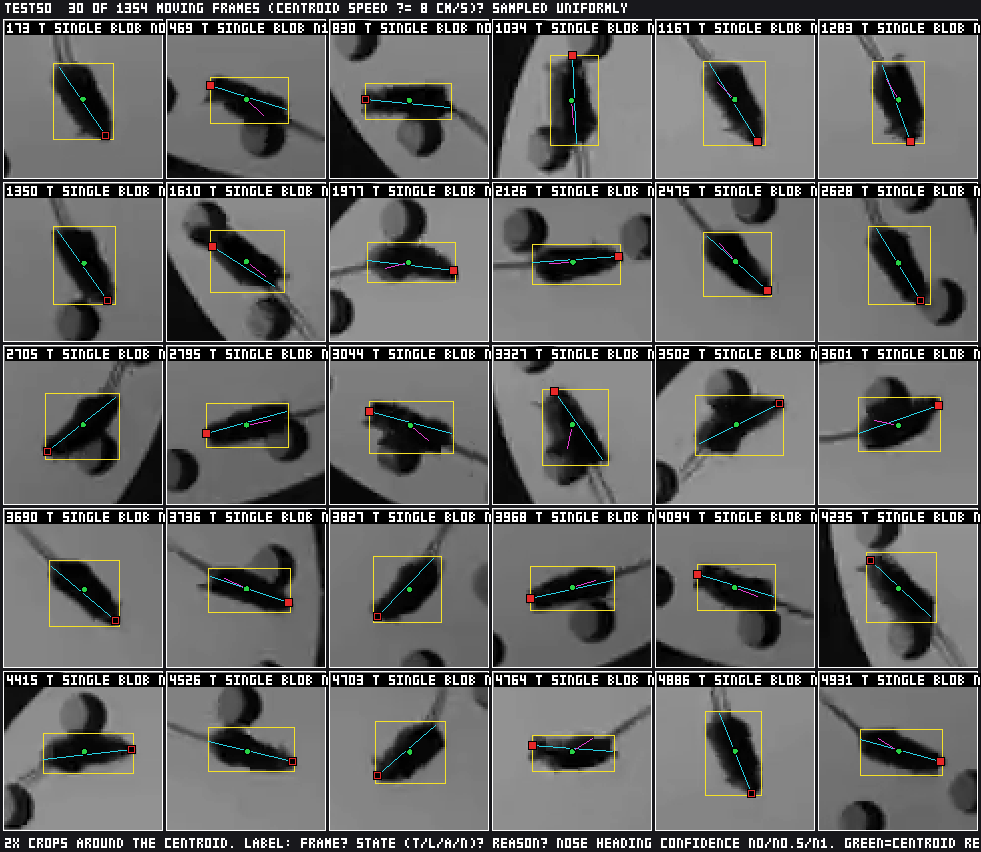
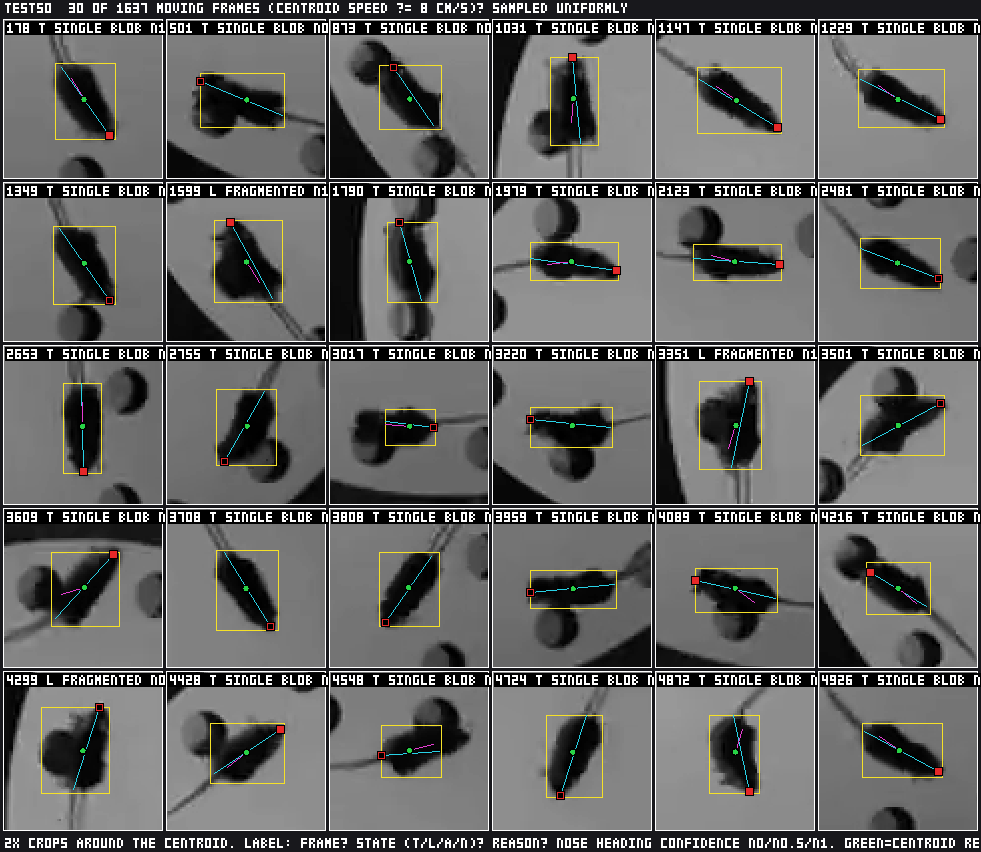
Re-measure the three sample videos with the fragment merge
multiple_blobs 423 -> 0 (test50), 63 -> 0 (test53), 89 -> 75 (test51: the
cylinder frames stay ambiguous); single-blob and centroid rates 100 % on
the sampled frames of all three clips; contact, zoom and moving sheets
regenerated and re-judged; the split-animal defect replaced by the residual
of the merge (union centroid on the visible pieces, nose availability).

Claude-Session: https://claude.ai/code/session_01KXTbpiAuxihG9Z8MdBGybC

diff --git a/prototypes/tracker/RESULTS.md b/prototypes/tracker/RESULTS.md
@@ -26,45 +26,46 @@ and nose cues, candidates, summary, timing), `<video>.background.png`, `<video>.
 `--debug` frames. The committed copies here are the contact, zoom and moving sheets and the
 backgrounds. All parameters were the defaults in `src/analysis/tracker/params.ts` (Otsu threshold,
 1.5 cm mask margin, 4–80 cm² area range, expected area learned, opening radius 0.8 cm, moving speed
-8 cm/s); nothing was tuned per video.
+8 cm/s, fragment merge distance 8 cm); nothing was tuned per video. The fragment merge (D48) was added
+after the first measurement; the before/after counts are at the end of this file.
 
 ## Summary per video
 
 | video  | frames | tracked | low_confidence | ambiguous | not_detected | threshold (Otsu) | px/cm | expected body area (learned) | median tracked blob |
 | ------ | -----: | ------: | -------------: | --------: | -----------: | ---------------: | ----: | ---------------------------: | ------------------: |
-| test50 |   5539 | 4155 (75.0 %) | 811 (14.6 %) | 423 (7.6 %) | 150 (2.7 %) | 51 | 4.526 | 564 px² = 27.5 cm² | 554 px² = 27.0 cm² |
-| test51 |    741 |  576 (77.7 %) |  76 (10.3 %) |  89 (12.0 %) |   0 (0.0 %) | 48 | 4.807 | 537 px² = 23.2 cm² | 536 px² = 23.2 cm² |
-| test53 |    905 |  602 (66.5 %) |  90 (9.9 %)  |  63 (7.0 %)  | 150 (16.6 %) | 43 | 4.526 | 461 px² = 22.5 cm² | 470 px² = 22.9 cm² |
+| test50 |   5539 | 4112 (74.2 %) | 1277 (23.1 %) | 0 (0.0 %) | 150 (2.7 %) | 51 | 4.526 | 564 px² = 27.5 cm² | 555 px² = 27.1 cm² |
+| test51 |    741 |  576 (77.7 %) |  90 (12.1 %) |  75 (10.1 %) |   0 (0.0 %) | 48 | 4.807 | 537 px² = 23.2 cm² | 536 px² = 23.2 cm² |
+| test53 |    905 |  590 (65.2 %) | 165 (18.2 %) |  0 (0.0 %)  | 150 (16.6 %) | 43 | 4.526 | 461 px² = 22.5 cm² | 471 px² = 23.0 cm² |
 
 Reasons (`state / reason`):
 
-| video  | single_blob | proximity_to_previous | no_foreground | multiple_blobs | oversized_blob | partial_at_rim | small_blob |
-| ------ | ----------: | --------------------: | ------------: | -------------: | -------------: | -------------: | ---------: |
-| test50 |        4112 |                    43 |           150 |            423 |              0 |            794 |         17 |
-| test51 |         576 |                     0 |             0 |             89 |              0 |             61 |         15 |
-| test53 |         590 |                    12 |           150 |             63 |              0 |              0 |         90 |
+| video  | single_blob | proximity_to_previous | no_foreground | multiple_blobs | oversized_blob | partial_at_rim | small_blob | fragmented |
+| ------ | ----------: | --------------------: | ------------: | -------------: | -------------: | -------------: | ---------: | ---------: |
+| test50 |        4112 |                     0 |           150 |              0 |              0 |            794 |          0 |        483 |
+| test51 |         576 |                     0 |             0 |             75 |              0 |             61 |         15 |         14 |
+| test53 |         590 |                     0 |           150 |              0 |              0 |              0 |         89 |         76 |
 
 Longest `not_detected` run: test50 frames 0–149 (150 frames, 4.97 s, empty platform before the
 animal is placed; no tracked point before it); test53 frames 0–149 (150 frames, 4.97 s, same); test51
 none (the platform is never empty: the start cylinder is on it from frame 0). The remaining
 `not_detected` count is zero in all three clips: every loss of the animal in these recordings is a
-`small_blob` (head in a hole, rear still visible) or an `ambiguous` frame, never an empty platform.
+`small_blob` (head in a hole, rear still visible) or, in test51, the start cylinder, never an empty platform.
 
-Where the states sit (runs of ≥ 3 frames): test51 `multiple_blobs` 0–74 (start cylinder) and 102–107,
-382–387 (animal over the left rim); `partial_at_rim` 180–191, 262–274, 555–571, 664–682 (rim holes);
-`small_blob` 726–740 (head in the last hole). test53 `multiple_blobs` 352–362, 375–380, 584–630
-(animal straddling a hole at the right and bottom rim); `small_blob` 816–904 (head in the hole at 3
-o'clock, rear outside). test50 `partial_at_rim` in 20 runs of 24–74 frames at rim holes;
-`multiple_blobs` in 39 runs of 3–45 frames, all with the animal over the left rim or straddling a
+Where the states sit (runs of ≥ 3 frames): test51 `multiple_blobs` 0–74 (start cylinder);
+`fragmented` 102–107, 382–387 (animal over the left rim); `partial_at_rim` 180–191, 262–274,
+555–571, 664–682 (rim holes); `small_blob` 726–740 (head in the last hole). test53 `fragmented`
+352–380, 584–630 (animal straddling a hole at the right and bottom rim); `small_blob` 816–904 (head
+in the hole at 3 o'clock, rear outside). test50 `partial_at_rim` in 20 runs of 24–74 frames at rim
+holes; `fragmented` in 40 runs of 3–49 frames, all with the animal over the left rim or straddling a
 hole.
 
 ### Timing (Node, this Mac)
 
 | video  | tracker compute only | including ffmpeg decode + pipe | sample pass | median (150 frames) | track pass | total |
 | ------ | -------------------: | -----------------------------: | ----------: | ------------------: | ---------: | ----: |
-| test50 |           2236 fps   |                      1795 fps  |      489 ms |              196 ms |    3086 ms | 4035 ms |
-| test51 |           1631 fps   |                      1295 fps  |      103 ms |              200 ms |     572 ms | 1124 ms |
-| test53 |           1998 fps   |                      1460 fps  |      120 ms |              195 ms |     620 ms | 1226 ms |
+| test50 |           2194 fps   |                      1755 fps  |      527 ms |              191 ms |    3156 ms | 4140 ms |
+| test51 |           1482 fps   |                      1098 fps  |      114 ms |              202 ms |     675 ms | 1251 ms |
+| test53 |           1767 fps   |                      1224 fps  |      133 ms |              205 ms |     739 ms | 1368 ms |
 
 Vitest's informational check on 200 synthetic 640 × 480 frames reports 2646 fps (the
 `tracker throughput` line printed by `npx vitest run tests/analysis/tracker/tracker.test.ts --reporter=verbose`). The ≥ 150 fps criterion holds with a ten-fold margin; the
@@ -129,7 +130,7 @@ to re-check the judgements.
 | 308 | yes | yes | yes | – (nose invalid) | tracked / single_blob |
 | 333 | yes | yes | yes | – (nose invalid) | tracked / single_blob |
 | 358 | yes | yes | yes | – (nose invalid) | tracked / single_blob |
-| 382 | yes (over the left rim) | **no** — body and the part over the rim are two pieces | **no** (no position given) | – | ambiguous / multiple_blobs |
+| 382 | yes (over the left rim) | yes — body and the part over the rim, merged (D48) | yes | – (nose invalid) | low_confidence / fragmented |
 | 407 | yes | yes | yes | – (nose invalid) | tracked / single_blob |
 | 432 | yes | yes | yes | yes (21 cm/s, conf 0.5) | tracked / single_blob |
 | 456 | yes | yes | yes | – | tracked / single_blob |
@@ -150,11 +151,11 @@ to re-check the judgements.
 | 552 + | yes | yes | yes | – (nose invalid) | tracked / single_blob |
 | 627 + | yes | yes | yes | – | tracked / single_blob |
 
-Derived (30 uniform frames): mouse visible in 27; single correct blob 26 / 27 = **96 %**; centroid
-within one body width 26 / 27 = **96 %** (the ambiguous frame counted as a miss for both); nose on
-head end on the moving frames 3 / 3. Whole clip: 14 of the 666 frames with the animal outside the
-cylinder are `multiple_blobs` (97.9 % single blob). Zero `tracked` frames while the cylinder is on the
-platform (frames 0–74; it is lifted between 74 and 76, no hand visible).
+Derived (30 uniform frames): mouse visible in 27; single correct blob 27 / 27 = **100 %**; centroid
+within one body width 27 / 27 = **100 %**; nose on head end on the moving frames 3 / 3. Whole clip:
+none of the 666 frames with the animal outside the cylinder is `multiple_blobs` (14 are
+`fragmented`, all with the animal over the left rim). Zero `tracked` frames while the cylinder is on
+the platform (frames 0–74; it is lifted between 74 and 76, no hand visible).
 
 ### test53 (empty start; 30 uniform + 3 extra)
 
@@ -172,15 +173,15 @@ platform (frames 0–74; it is lifted between 74 and 76, no hand visible).
 | 286 | yes | yes | yes | – (nose invalid) | tracked / single_blob |
 | 316 | yes | yes | yes | – (nose invalid: body round, tail across the axis) | tracked / single_blob |
 | 346 | yes | yes | yes | – (nose invalid) | tracked / single_blob |
-| 377 | yes (at the right rim hole) | **no** — split by the hole | **no** | – | ambiguous / multiple_blobs |
+| 377 | yes (at the right rim hole) | yes — split by the hole, merged (D48) | yes | – (nose invalid) | low_confidence / fragmented |
 | 407 | yes | yes | yes | – (nose invalid) | tracked / single_blob |
 | 437 | yes | yes | yes | – | tracked / single_blob |
 | 467 | yes | yes | yes | yes (9 cm/s, conf 1.0) | tracked / single_blob |
 | 497 | yes | yes | yes | – | tracked / single_blob |
 | 527 | yes | yes | yes | yes (15 cm/s, conf 1.0) | tracked / single_blob |
 | 558 | yes | yes | yes | – | tracked / single_blob |
-| 588 | yes (at the bottom rim hole) | **no** — split by the hole | **no** | – | ambiguous / multiple_blobs |
-| 618 | yes (at the bottom rim hole) | **no** — split by the hole | **no** | – | ambiguous / multiple_blobs |
+| 588 | yes (at the bottom rim hole) | yes — split by the hole, merged | yes | ? (11 cm/s, conf 0.0: tail and velocity disagree; the head is not visible in the crop) | low_confidence / fragmented |
+| 618 | yes (at the bottom rim hole) | yes — split by the hole, merged | yes | – | low_confidence / fragmented |
 | 648 | yes | yes | yes | – | tracked / single_blob |
 | 678 | yes | yes | yes | – | tracked / single_blob |
 | 708 | yes | yes | yes | – | tracked / single_blob |
@@ -194,12 +195,12 @@ platform (frames 0–74; it is lifted between 74 and 76, no hand visible).
 | 37 + | no | n/a | n/a | – | not_detected / no_foreground |
 | 62 + | no | n/a | n/a | – | not_detected / no_foreground |
 
-Derived (30 uniform frames): mouse visible in 25; single correct blob 22 / 25 = **88 %**; centroid
-within one body width 22 / 25 = **88 %**; nose on head end on the moving frames 3 / 3. Whole clip: 63
-of the 755 frames after the animal is placed are `multiple_blobs` (91.7 % single blob); in every one
-of them the two plausible pieces lie within 6.5 cm of each other (median 4.1 cm), i.e. one animal
-split by a hole. Frames 0–149 are all `not_detected / no_foreground` (the animal appears at the right
-rim at frame 150; no hand is ever visible inside the mask).
+Derived (30 uniform frames): mouse visible in 25; single correct blob 25 / 25 = **100 %**; centroid
+within one body width 25 / 25 = **100 %**; nose on head end on the moving frames 3 / 3 plus one
+unresolvable (588). Whole clip: none of the 755 frames after the animal is placed is
+`multiple_blobs`; 76 are `fragmented` (the animal split by a hole, pieces within 6.5 cm of each
+other, median 4.1 cm, merged under D48). Frames 0–149 are all `not_detected / no_foreground` (the
+animal appears at the right rim at frame 150; no hand is ever visible inside the mask).
 
 ### test50 (3 min; 30 uniform)
 
@@ -210,11 +211,11 @@ rim at frame 150; no hand is ever visible inside the mask).
 | 461 | yes | yes | yes | yes (15 cm/s, conf 0.5) | tracked / single_blob |
 | 646 | yes | yes | yes | – | tracked / single_blob |
 | 830 | yes | yes | yes | yes (10 cm/s, conf 0.5) | tracked / single_blob |
-| 1015 | yes (over the left rim) | **no** — body and the part over the rim | **no** | – | ambiguous / multiple_blobs |
+| 1015 | yes (over the left rim) | yes — body and the part over the rim, merged (D48) | yes | – (nose invalid) | low_confidence / fragmented |
 | 1200 | yes | yes | yes | yes (14 cm/s, conf 0.5) | tracked / single_blob |
 | 1384 | yes | yes | yes | – | tracked / single_blob |
 | 1569 | yes | yes | yes | – | tracked / single_blob |
-| 1754 | yes (over the left rim) | **no** | **no** | – | ambiguous / multiple_blobs |
+| 1754 | yes (over the left rim) | yes — merged | yes | – (nose invalid) | low_confidence / fragmented |
 | 1938 | yes | yes | yes | – | tracked / single_blob |
 | 2123 | yes | yes | yes | yes (18 cm/s, conf 1.0) | tracked / single_blob |
 | 2307 | yes | yes | yes | – (nose invalid: tail below threshold) | tracked / single_blob |
@@ -228,7 +229,7 @@ rim at frame 150; no hand is ever visible inside the mask).
 | 3784 | yes | yes | yes | – | tracked / single_blob |
 | 3969 | yes | yes | yes | yes (19 cm/s, conf 1.0) | tracked / single_blob |
 | 4154 | yes | yes | yes | yes (15 cm/s, conf 0.5) | tracked / single_blob |
-| 4338 | yes (over the left rim) | **no** | **no** | – | ambiguous / multiple_blobs |
+| 4338 | yes (over the left rim) | yes — merged | yes | yes (19 cm/s, conf 0.5) | low_confidence / fragmented |
 | 4523 | yes | yes | yes | yes (13 cm/s, conf 0.5) | tracked / single_blob |
 | 4708 | yes | yes | yes | yes (15 cm/s, conf 0.5) | tracked / single_blob |
 | 4892 | yes | yes | yes | yes (25 cm/s, conf 1.0) | tracked / single_blob |
@@ -236,10 +237,10 @@ rim at frame 150; no hand is ever visible inside the mask).
 | 5262 | yes | yes | yes | – | tracked / single_blob |
 | 5446 | yes | yes | yes | – (nose invalid) | tracked / single_blob |
 
-Derived (30 uniform frames): mouse visible in 29; single correct blob 26 / 29 = **90 %**; centroid
-within one body width 26 / 29 = **90 %**; nose on head end on the moving frames 11 / 11. Whole clip:
-423 of the 5389 frames after the animal is placed are `multiple_blobs` (92.2 % single blob); in every
-one of them the plausible pieces lie within 6.3 cm of each other (median 4.7 cm).
+Derived (30 uniform frames): mouse visible in 29; single correct blob 29 / 29 = **100 %**; centroid
+within one body width 29 / 29 = **100 %**; nose on head end on the moving frames 12 / 12. Whole clip:
+none of the 5389 frames after the animal is placed is `multiple_blobs`; 483 are `fragmented` (pieces
+within 6.3 cm of each other, median 4.7 cm, merged under D48).
 
 ### Nose on moving frames (`<video>.moving.png`: 30 frames sampled uniformly among the moving frames)
 
@@ -249,13 +250,13 @@ Judged tile by tile from the animal's visible tail. Confidence in brackets is th
 | video  | moving frames in the clip | sampled | nose on head end | notes |
 | ------ | ------------------------: | ------: | ---------------: | ----- |
 | test51 | 82 | 30 | **30 / 30** | 13 at 1.0, 17 at 0.5 |
-| test53 | 98 | 30 | **30 / 30** | 27 at 1.0, 3 at 0.5 (frames 519, 539, 542: tail cue only) |
-| test50 | 1354 | 30 | **29 / 30**, 1 not resolvable at 2 × (frame 2126: the tail is hidden under the body) | 17 at 1.0, 13 at 0.5 |
+| test53 | 127 | 30 | **28 / 30**, 2 not resolvable at 2 × (frames 622, 627: `fragmented` at the bottom hole, tail not in the crop) | 22 at 1.0, 7 at 0.5, 1 at 0.0 (frame 631, tail cue chosen and right) |
+| test50 | 1637 | 30 | **30 / 30** | 15 at 1.0, 13 at 0.5, 2 at 0.0 (frames 3017, 4548, tail cue chosen and right) |
 
-Every moving frame in all three clips carries a valid nose (82 / 82, 98 / 98, 1354 / 1354), and on
-the moving frames tail and velocity cues never disagree in test51 and test53 (0 of 42 and 0 of 90
-frames with both cues) and disagree in 10 % of test50's (68 of 679; conf 0.0 on 68 of its 1354 moving
-frames).
+Nearly every moving frame carries a valid nose (82 / 82, 126 / 127, 1630 / 1637), and on frames with
+both cues tail and velocity disagree on 0 of 42 (test51), 2 of 98 (test53) and 88 of 760 (test50,
+12 %; conf 0.0 on 95 of its 1637 moving frames). Before D48 the moving sets were 82 / 98 / 1354
+frames and the judgement was 30 / 30, 30 / 30, 29 / 30 (+1 unresolvable).
 
 ### Nose-cue analysis behind the moving-speed default
 
@@ -283,7 +284,8 @@ Tail cue availability on frames with a blob, after attaching detached tail piece
 tail base frequently falls below the foreground threshold, so the tail is a separate thin piece
 next to the body; pieces are attached only when at least 2.5 × elongated, because a compact shadow
 next to the body was otherwise taken for a tail and put the nose on the wrong end — test51 frame
-111): test51 71 %, test53 78 %, test50 54 %; nose invalid (no cue at all) 23 %, 21 %, 32 %. The
+111): test51 70 %, test53 75 %, test50 51 % of the frames with a blob (after D48, which adds the
+fragmented frames to the denominator); nose invalid (no cue at all) 24 %, 21 %, 32 %. The
 remaining no-cue frames are tails entirely below threshold (e.g. test50 frame 2307) or a hunched,
 nearly round body whose major axis is undefined so the tail lies across it (test53 frame 316); both
 are honest outcomes.
@@ -293,7 +295,7 @@ are honest outcomes.
 Where the tracker commits to a nose on a moving frame it is on the head end in 89 / 90 judged frames
 (the 90th could not be judged); where it does not commit, it says so (`valid: false`, confidence 0).
 Under the current confidence scheme a tail-only nose scores 0.5, below O16's 0.6 cutoff, and the two
-cues agree (1.0) on only 42 / 90 / 611 frames per clip, so with O16 as it stands events would use the
+cues agree (1.0) on only 42 / 96 / 672 frames per clip, so with O16 as it stands events would use the
 centroid on nearly every hole visit (the animal is stationary at holes, so the velocity cue is
 unavailable there by design). Recommendation: keep D18's fallback — ship the nose labelled
 experimental and let events default to the centroid — and let Alex decide, from the zoom and moving
@@ -304,25 +306,42 @@ cue is right whenever it exists, but the cutoff is his call, not this chunk's.
 
 | criterion | test50 | test51 | test53 | evidence |
 | --------- | :----: | :----: | :----: | -------- |
-| single correct blob ≥ 95 % where the mouse is visible | **FAIL** 90 % (clip 92.2 %) | PASS 96 % (clip 97.9 %) | **FAIL** 88 % (clip 91.7 %) | tables above; every miss is one animal split into two pieces by a hole or the rim shadow (`ambiguous / multiple_blobs`, pieces within one body length) |
-| centroid within one body width ≥ 95 % where the mouse is visible | **FAIL** 90 % | PASS 96 % | **FAIL** 88 % | same frames: wherever a centroid is given it is on the body (0 misplaced centroids in 76 judged tracked/low_confidence tiles); the misses are frames with no centroid |
+| single correct blob ≥ 95 % where the mouse is visible | PASS 100 % (29 / 29; clip 100 %) | PASS 100 % (27 / 27; clip 100 %) | PASS 100 % (25 / 25; clip 100 %) | tables above; before D48 this read 90 % / 96 % / 88 % (clips 92.2 % / 97.9 % / 91.7 %): every miss was one animal split into two pieces by a hole or the rim shadow, now merged |
+| centroid within one body width ≥ 95 % where the mouse is visible | PASS 100 % | PASS 100 % | PASS 100 % | 0 misplaced centroids in the 83 judged tracked/low_confidence tiles, the 7 merged frames included |
 | zero `tracked` during test53's empty start | PASS (frames 0–149 all `not_detected / no_foreground`) | — | PASS | summary; `sample-videos.test.ts` |
 | zero `tracked` during test51's start-cylinder frames | — | PASS (frames 0–74 all `ambiguous / multiple_blobs`) | — | summary; `sample-videos.test.ts` |
 | experimenter's hand frames are `ambiguous / oversized_blob` | NOT TESTABLE on this data | NOT TESTABLE | NOT TESTABLE | no hand ever appears inside the platform mask in any clip (test53's animal appears at the rim at frame 150; test51's cylinder is lifted between frames 74 and 76 without a visible hand); `oversized_blob` is exercised by the synthetic-hand tests only; the cylinder itself is two crescents 8.9 cm apart, not one oversized blob |
-| nose on the correct end ≥ 80 % of moving frames | PASS 29 / 30 (+1 unresolvable) | PASS 30 / 30 | PASS 30 / 30 | moving sheets |
-| ≥ 150 fps in Node | PASS 2236 fps | PASS 1631 fps | PASS 1998 fps | timing table (compute only; 1295–1795 fps including ffmpeg) |
+| nose on the correct end ≥ 80 % of moving frames | PASS 30 / 30 | PASS 30 / 30 | PASS 28 / 30 (+2 unresolvable) | moving sheets |
+| ≥ 150 fps in Node | PASS 2194 fps | PASS 1482 fps | PASS 1767 fps | timing table (compute only; 1098–1755 fps including ffmpeg) |
 | deterministic | PASS | PASS | PASS | `sample-videos.test.ts` (two runs byte-identical on test53); `tracker.test.ts` on synthetic frames |
 | background contamination check reports test51's stationary end honestly | — | PASS (nothing baked in; no warning; said so) | — | section above |
 | lint / typecheck / test / build green; nothing from `out/` or a video committed; sheets ≤ 700 KB | PASS | PASS | PASS | `npm run lint && npm run typecheck && npm test && npm run build`; committed PNGs are 42–441 KB |
 | fallback ladder for test51's light surround | not needed | not needed | not needed | Otsu 48 on a clean background; the 1.5 cm mask margin was not tightened; no adaptive threshold; not BLOCKED |
 
-The single-blob and centroid criteria fail on test50 and test53 for one reason, which the tracker
-reports rather than hides: an animal straddling a hole (dark in the background, so no difference
-signal under the body) or hanging over the rim (the rim's shadow line splits the difference image)
-is two foreground pieces, and the selection rule of this chunk makes two plausible pieces
-`ambiguous / multiple_blobs` unless exactly one is near the previous position — both are. In every
-such frame of test50 and test53 (423 and 63) the pieces are within one body length of each other
-(max 6.3 / 6.5 cm). Treating pieces within one body length as one animal (a merged candidate with a
-new reason such as `fragmented`, at `low_confidence`) would take the single-blob rate to 100 % of
-visible frames in both clips; that adds a reason string to the fixed list and is Alex's decision,
-raised in the chunk report.
+## Fragment merge (D48): before and after
+
+An animal straddling a hole (dark in the background, so no difference signal under the body) or
+hanging over the rim (the rim's shadow line splits the difference image) is two foreground pieces.
+The first measurement, with the selection rule of the chunk prompt, made two plausible pieces
+`ambiguous / multiple_blobs` unless exactly one was near the previous position — both always were —
+and the single-blob and centroid criteria read 90 % / 96 % / 88 % on the sampled frames (92.2 % /
+97.9 % / 91.7 % over the clips). In every such frame of test50 and test53 the pieces lay within one
+body length of each other (max 6.3 / 6.5 cm, median 4.7 / 4.1 cm); the start cylinder's two
+crescents in test51 are 8.9 cm apart.
+
+D48 merges plausible pieces whose centroids all lie within `fragmentMergeDistance_cm` (8 cm) into
+one candidate — union centroid, area, bounding box and summed moments, so the ellipse and the nose
+cues still work — as `low_confidence / fragmented`, provided the union satisfies the same area
+bounds as a single blob (minimum area, and the oversized bound `min(maxBlobArea, oversizedBlobFactor
+× expected)`); otherwise the frame stays `ambiguous / multiple_blobs`.
+
+| video  | `multiple_blobs` before → after | `fragmented` after | `tracked` before → after | single blob, sampled frames | single blob, whole clip |
+| ------ | ------------------------------: | -----------------: | -----------------------: | --------------------------: | ----------------------: |
+| test50 | 423 → 0 | 483 (the 423, plus 43 `proximity_to_previous` and 17 `small_blob` frames that also had two pieces within reach) | 4155 → 4112 | 90 % → 100 % | 92.2 % → 100 % |
+| test51 | 89 → 75 (the cylinder frames 0–74, crescents 8.9 cm apart, correctly not merged; as one blob their 1610 px² would also exceed the oversized bound of 3 × 537) | 14 | 576 → 576 | 96 % → 100 % | 97.9 % → 100 % |
+| test53 | 63 → 0 | 76 (the 63, plus 12 `proximity_to_previous` and 1 `small_blob`) | 602 → 590 | 88 % → 100 % | 91.7 % → 100 % |
+
+What the merge does not give: the union centroid is the area-weighted centroid of the visible
+pieces (with the head in a hole it sits on the visible body); the nose is available on 21 % / 66 % /
+53 % of fragmented frames (test51 / test53 / test50); the union's bounding box spans the hole.
+Recorded in `docs/known-limitations.md`.

diff --git a/docs/known-limitations.md b/docs/known-limitations.md
@@ -7,17 +7,18 @@ session it is found (D39).
 
 ## Defects
 
-- **An animal split in two is reported as ambiguous, not positioned.** When the animal straddles a
-  hole (dark in the background, so there is no difference signal under the body) or hangs over the
-  rim where the rim's shadow line cuts the difference image, the foreground is two plausible pieces
-  and the tracker's selection rule reports `ambiguous / multiple_blobs` with no centroid. This is
-  7.6 % of test50's frames and 7.0 % of test53's (423 and 63 frames), concentrated at holes — the
-  moments the assay cares about — and it is why the single-blob criterion of chunk 2 reads 92 % / 92 %
-  on those clips instead of ≥ 95 %. In every such frame the pieces lie within one body length of each
-  other (max 6.3 / 6.5 cm). Not fixed in chunk 2 because the remedy — merging pieces within one body
-  length into one candidate under a new reason such as `fragmented` at `low_confidence` — adds a
-  reason string to the fixed vocabulary and needs a decision; measured and proposed in
-  `prototypes/tracker/RESULTS.md`.
+- **A merged animal is positioned, but only as a union.** When the animal straddles a hole (dark
+  in the background, so there is no difference signal under the body) or hangs over the rim where
+  the rim's shadow line cuts the difference image, the foreground is two pieces; since D48 the
+  pieces are merged into one `low_confidence / fragmented` candidate when their centroids lie within
+  `fragmentMergeDistance_cm` (8 cm) of each other and the union satisfies the single-blob area
+  bounds. This is 8.7 % of test50's frames and 8.4 % of test53's (483 and 76 frames; 14 in test51),
+  concentrated at holes. What remains: the union centroid is the area-weighted centroid of the
+  visible pieces, so with the head in a hole it sits on the visible body, not the true body centre;
+  the nose is available on only 53 % / 66 % / 21 % of fragmented frames (test50 / test53 / test51),
+  and the union's bounding box spans the hole. Two pieces farther apart than the merge distance are
+  still `ambiguous / multiple_blobs` (only the start cylinder's two crescents, 8.9 cm apart, in the
+  sample videos).
 - **The nose is often unavailable, and a tail-only nose never clears O16.** The tail cue exists on
   71 % / 78 % / 54 % of frames with a blob (test51 / test53 / test50) and no cue at all on 23 % /
   21 % / 32 %: the re-encoded tail is frequently below the foreground threshold along its whole
